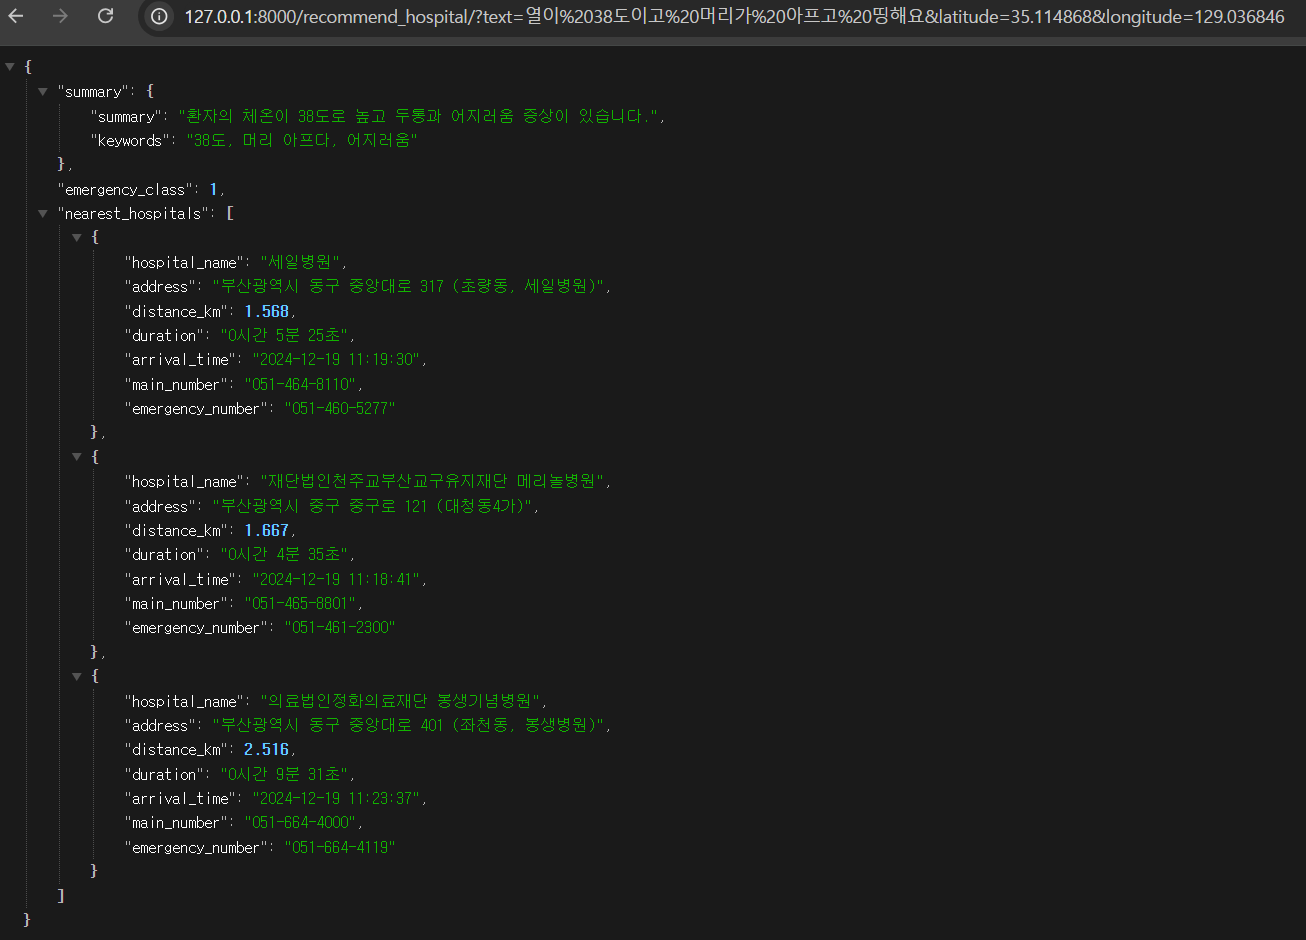
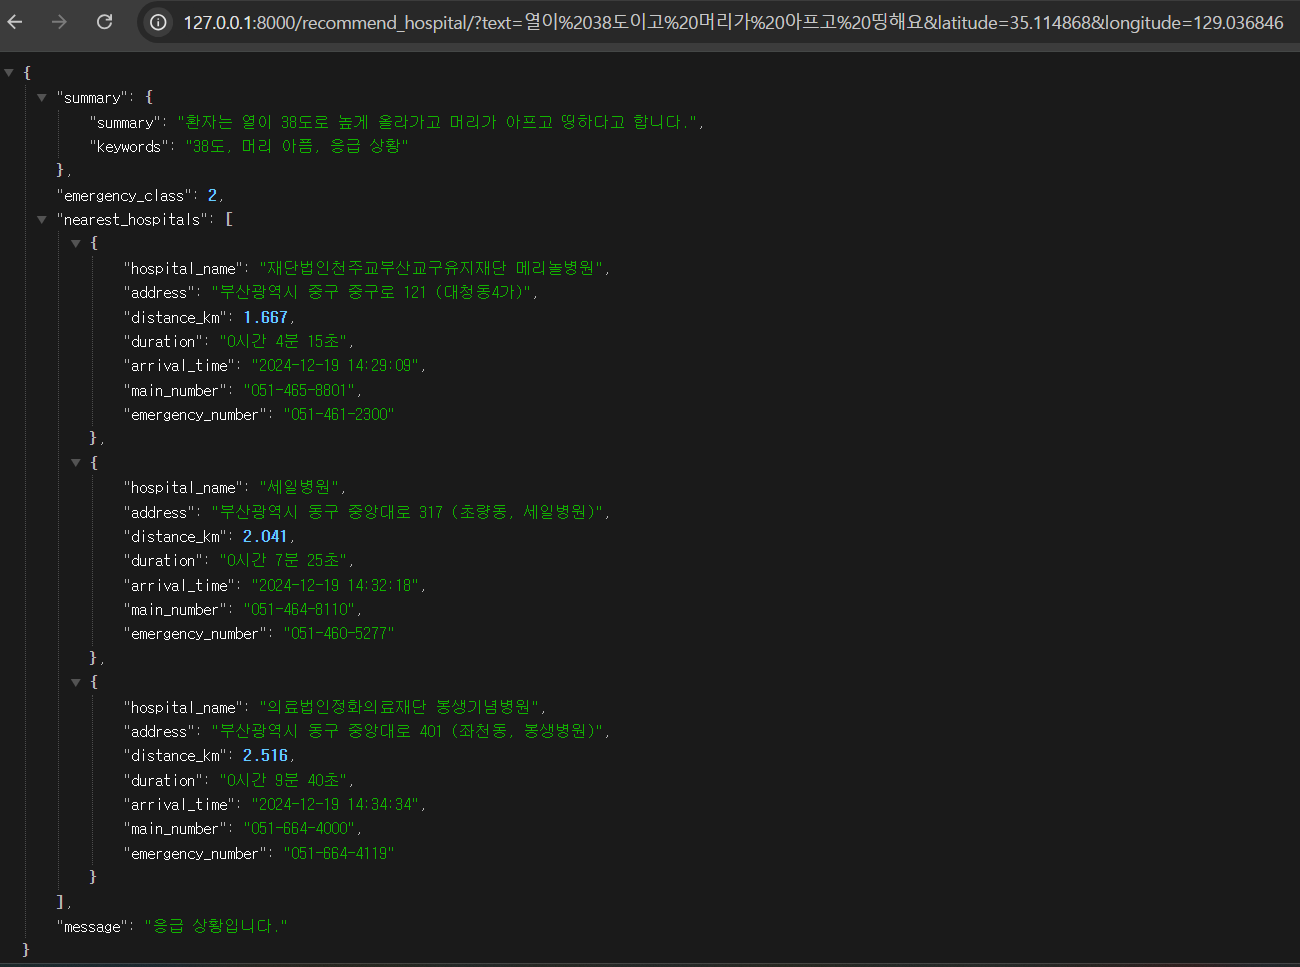
docs: json 출력 이미지 추가

diff --git a/README.md b/README.md
@@ -1,4 +1,9 @@
 # 7차 미니프로젝트
 ## Fast api
 
+### json 출력 값
+1. 열이 38도이고 머리가 아프로 띵해요
 !["현재 결과"](./images/1.png)
+
+2. 열이 36도이고 멀쩡해요
+!["현재 결과"](./images/2.png)
